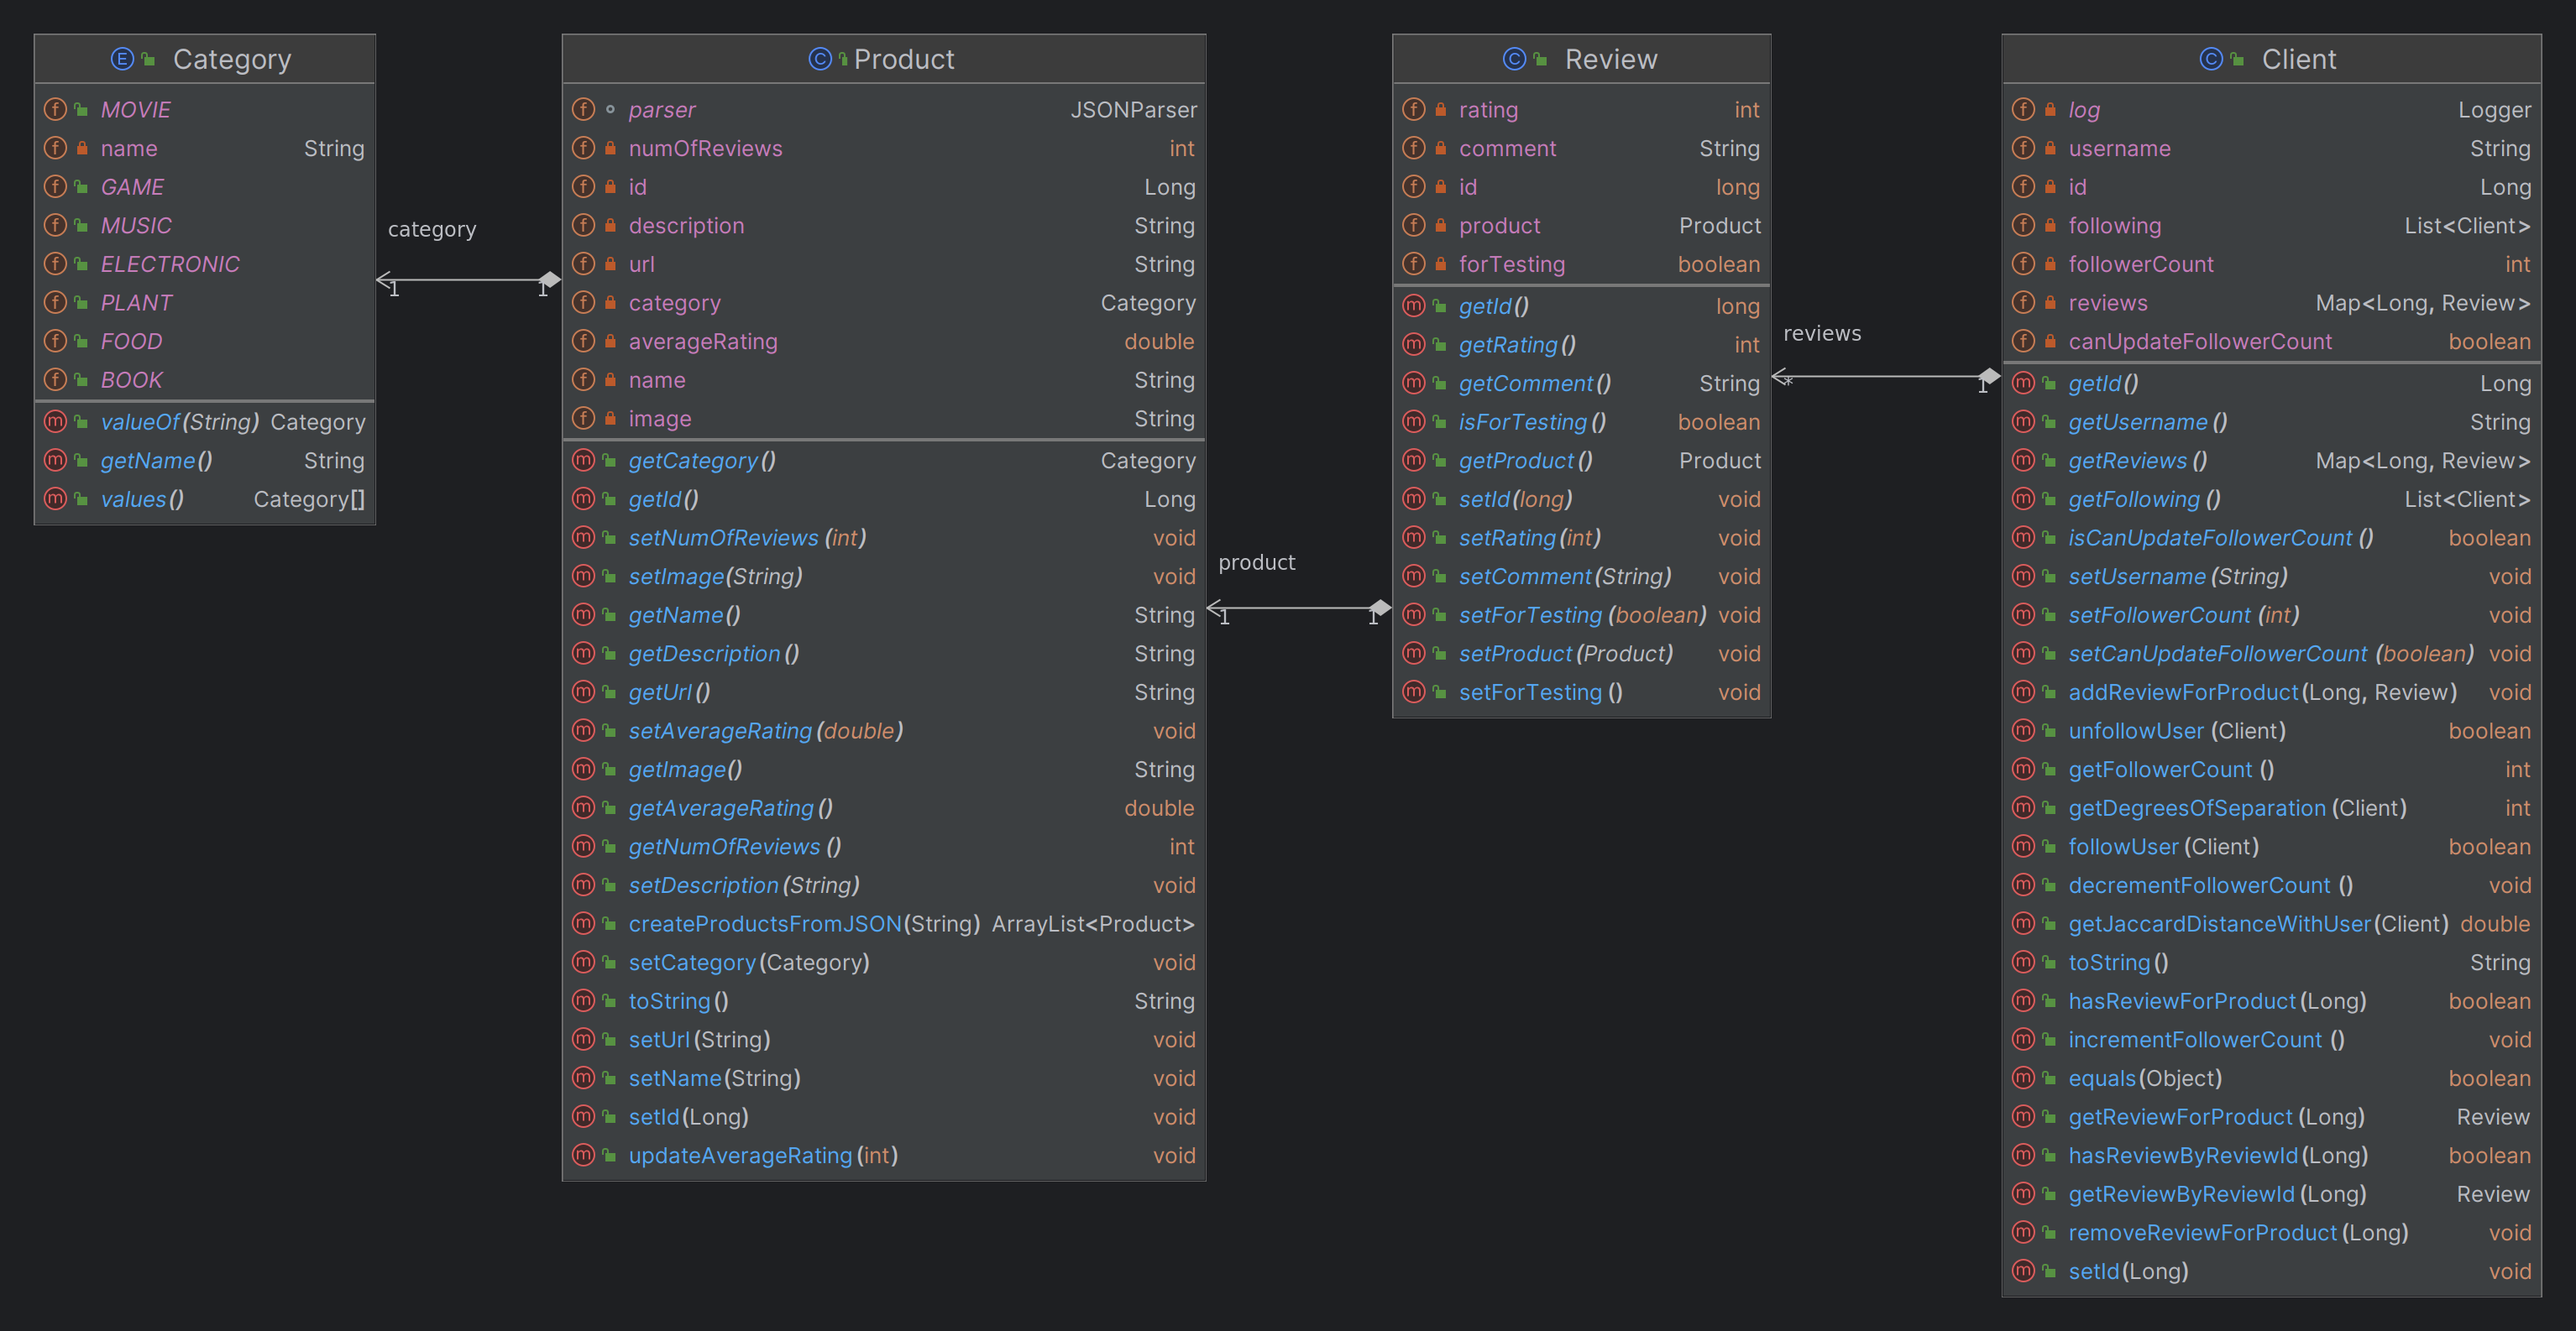
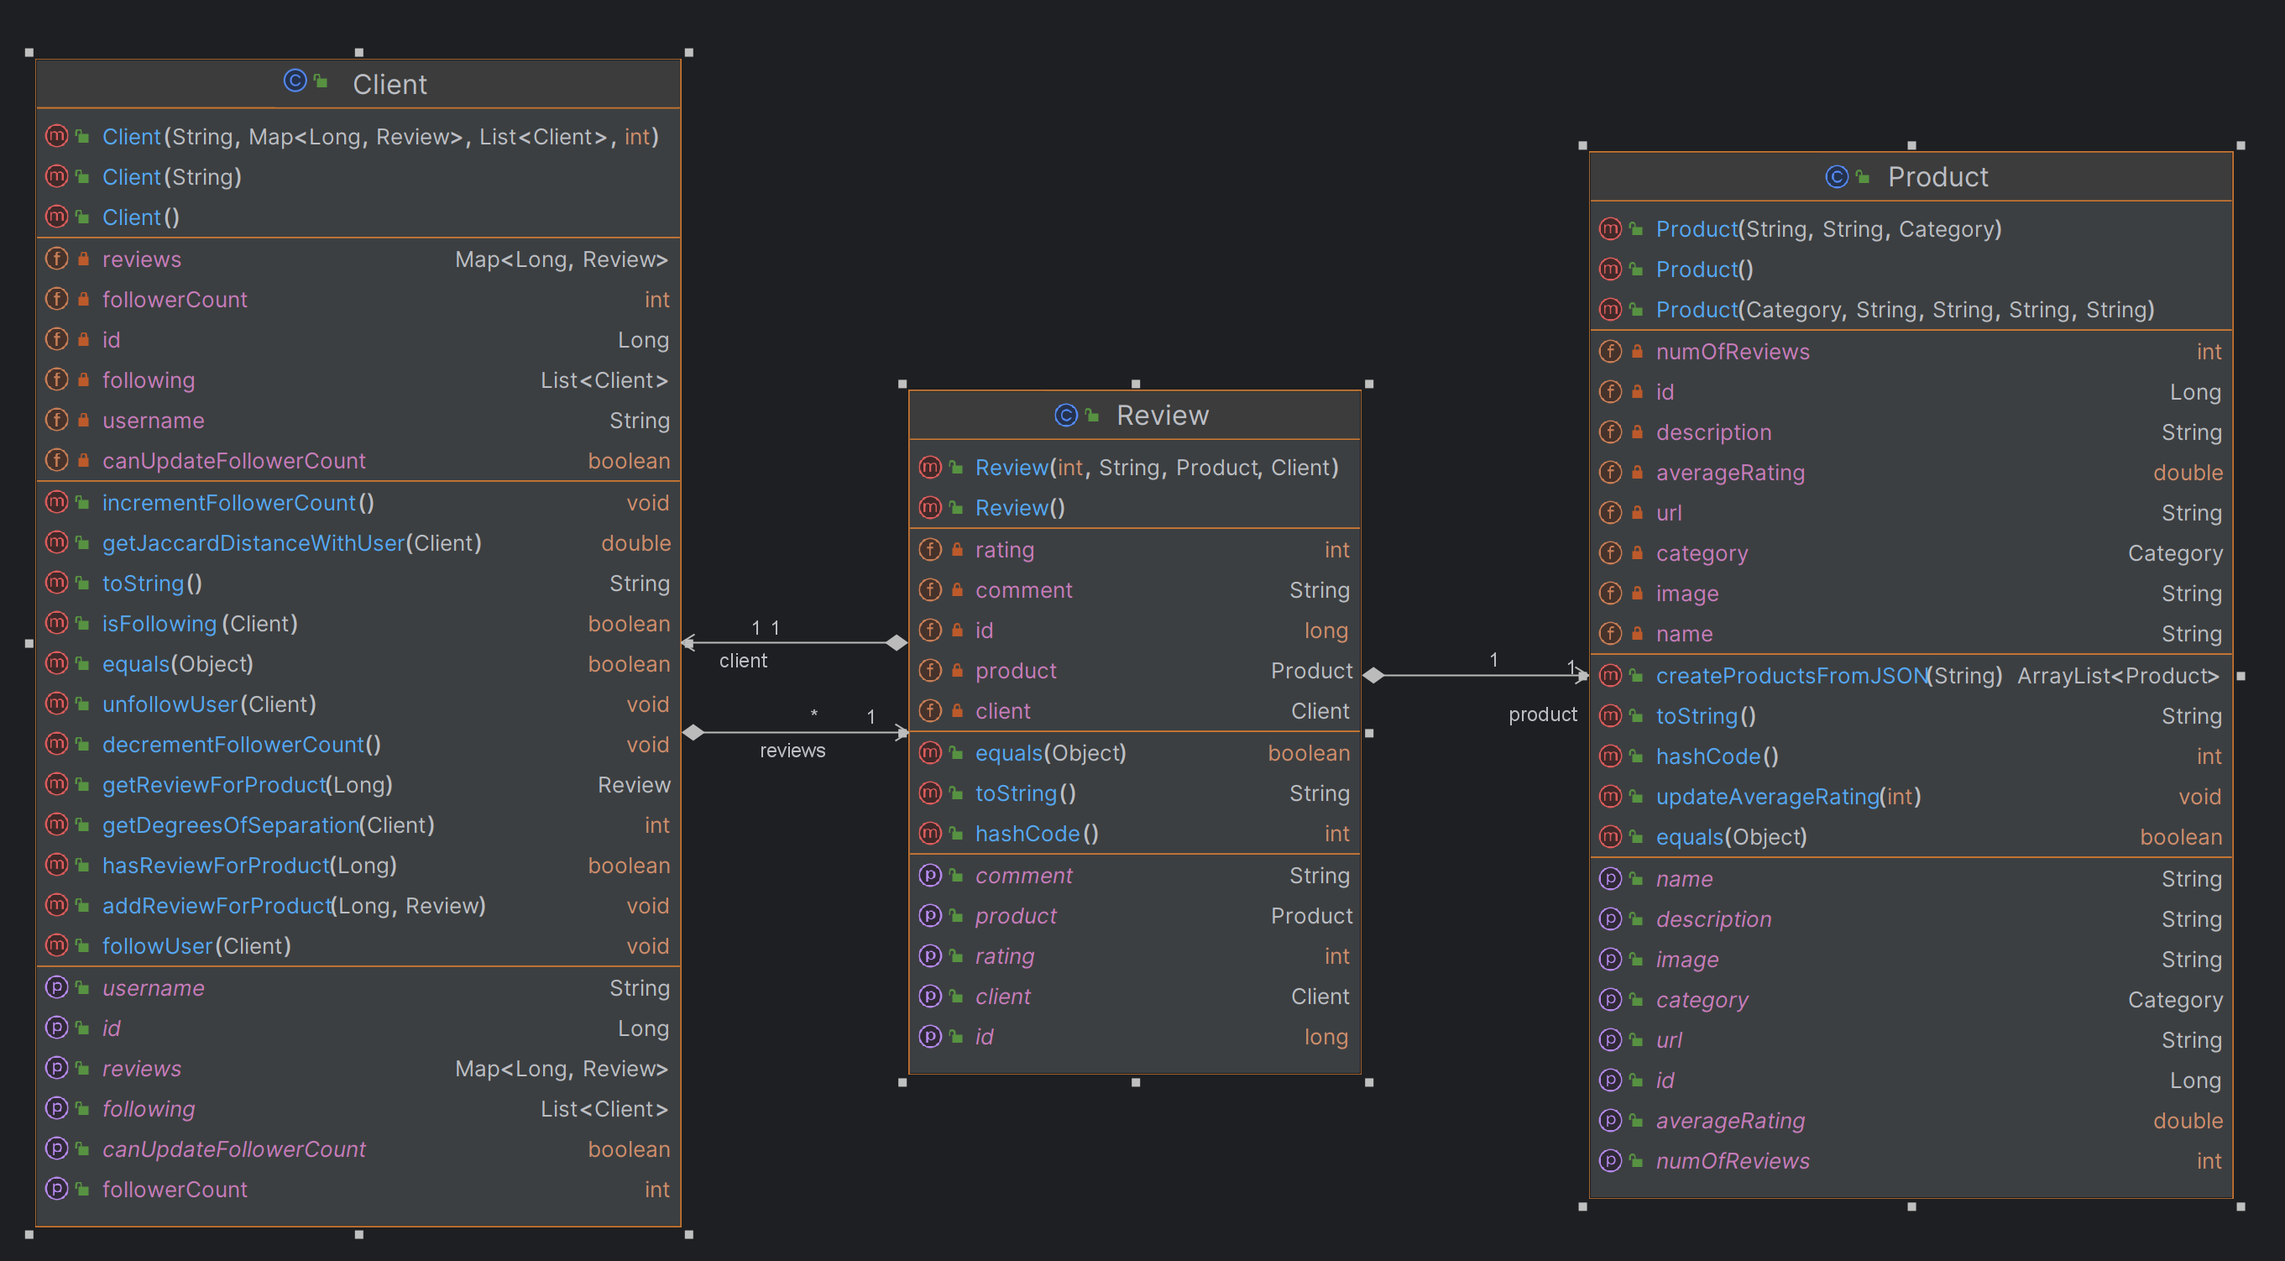
Update readme and diagrams

diff --git a/README.md b/README.md
@@ -9,13 +9,13 @@ This Product Reviews Web App is a SpringBoot web application deployed on Azure W
 and Thymeleaf calls to organize and display information that is persisted and stored in a database.
 
 ## Working Technology Stack
-<p> 
+<div> 
     <a href="https://spring.io/projects/spring-boot" target="_blank"> <img src="https://upload.wikimedia.org/wikipedia/commons/7/79/Spring_Boot.svg" alt="springboot" width="40" height="40"/> </a> 
     <a href="https://prometheus.io/" target="_blank"> <img src="https://upload.wikimedia.org/wikipedia/commons/3/38/Prometheus_software_logo.svg" alt="prometheus" width="40" height="40"/> </a>
     <a href="https://grafana.com/" target="_blank"> <img src="https://upload.wikimedia.org/wikipedia/commons/a/a1/Grafana_logo.svg" alt="grafana" width="40" height="40"/> </a>
     <a href="https://www.docker.com/" target="_blank"> <img src="https://upload.wikimedia.org/wikipedia/en/f/f4/Docker_logo.svg" alt="docker" width="40" height="40"/> </a>
     <a href="https://www.docker.com/" target="_blank"> <img src="https://upload.wikimedia.org/wikipedia/commons/f/fa/Microsoft_Azure.svg" alt="azure" width="40" height="40"/> </a>
-</p>
+</div>
 
 ## Description
 Product reviews on the platform are linked to their respective website listings. Each review comprises a star rating 
@@ -41,19 +41,26 @@ the review's author and related product.
 ### Client
 
 The client entity is responsible for holding the model logic of the typical client. Clients have a username, a map of 
-product_id, review pairs, a list of users they follow, and a count of how many users follow them. 
-Clients can follow and unfollow other clients, write reviews of products, and calculate Jaccard Distance to each other.
+`product_id`, review pairs, a list of users they follow, and a count of how many users follow them - using *Degrees of Separation*. 
+Clients can follow and unfollow other clients, write reviews of products, and calculate *Jaccard Distance* to each other.
 
 ## Sprint Plan
 
-This sprint we are focusing on getting most of the main functionality of the project done such as user login, user follow capabilities, Jaccard distance between users and ensuring Prometheus and Grafana work on the Azure cloud platform.
+Sprint plans are focused on achieving the main feature and functionality of the project completed such as:
+- acceptable user-interface to display relevant entities of the project model
+- Jaccard distance between users
+- Degrees of separation between followers
+- Prometheus and Grafana work on the Azure cloud platform.
 
 All the planned issues can be found here:
+* [Milestone 1](https://github.com/NathanMacDiarmid/ProductReviewsWebApp/milestone/1)
+* [Milestone 2](https://github.com/NathanMacDiarmid/ProductReviewsWebApp/milestone/2)
+* [Milestone 3](https://github.com/NathanMacDiarmid/ProductReviewsWebApp/milestone/3)
 
-https://github.com/NathanMacDiarmid/ProductReviewsWebApp/milestone/2
-
-### UML Class Diagram
+### UML Class Diagram - model
 ![classUML-model](./documentation/classUML-model.png)
+
+### UML Class Diagram - controller
 ![classUML-controller](./documentation/classUML-controller.png)
 
 ### Entity Relationship Diagram
@@ -62,7 +69,7 @@ https://github.com/NathanMacDiarmid/ProductReviewsWebApp/milestone/2
 ## Run locally
 
 - Clone the repository to your machine and run the ProductReviewsWebAppApplication.java file
-- On any web browser, navigate to localhost:8080, allowing an offline developer view of the project
+- On any web browser, navigate to `localhost:8080`, allowing an offline developer view of the project
 
 
 ## Run with Prometheus and Grafana monitoring
@@ -71,10 +78,13 @@ Prometheus and Grafana can be used to query and visualize a variety of app metri
 
 - Install docker on your machine ([docker installation webpage](https://docs.docker.com/engine/install/) or `sudo apt install docker.io` on debian)
 - Install docker compose on your machine ([docker compose installation site](https://docs.docker.com/compose/install/))
-- Run 'mvn package' in the project root directory to ensure that the latest version of the project jar file is present
-- Open the terminal, navigate to the monitoring directory and run 'docker-compose up -d' or 'docker compose up -d' (depending on how docker compose was installed, docker-compose may not work as sometimes docker compose is included in the docker installation instead of installed individually)
-- Navigate to http://localhost:8080 for the Product Reviews Web App, http://localhost:9090 for the Prometheus user interface and http://localhost:3000 for the Grafana user interface
-- Once you are done, navigate to the monitoring directory again and run 'docker-compose down' to stop the containers
+- Run `mvn package` in the project root directory to ensure that the latest version of the project jar file is present
+- Open the terminal, navigate to the monitoring directory and run `docker-compose up -d` or `docker compose up -d` (depending on how docker compose was installed, docker-compose may not work as sometimes docker compose is included in the docker installation instead of installed individually)
+- Navigate to URL:
+  - `http://localhost:8080` for the Product Reviews Web App
+  - `http://localhost:9090` for the Prometheus user interface
+  - `http://localhost:3000` for the Grafana user interface
+- Once you are done, navigate to the monitoring directory again and run `docker-compose down` to stop the containers
 
 ## Contribute
 
